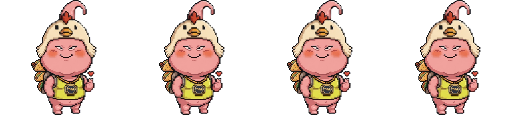
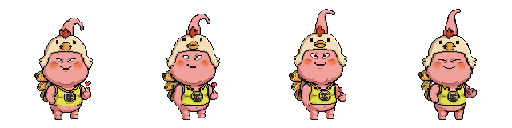
Pet World: refine hero idles and critter facing

diff --git a/client/src/components/petWorld/PetWorldCanvas.jsx b/client/src/components/petWorld/PetWorldCanvas.jsx
@@ -627,6 +627,22 @@ function smoothStep(value) {
   return value * value * (3 - 2 * value);
 }
 
+function resolveFacingFromDelta(dx, dy, fallback = 1, options = {}) {
+  const validFallback = [-2, -1, 1, 2].includes(fallback) ? fallback : 1;
+  if (options.sideOnly) {
+    if (Math.abs(dx) > 0.02) return dx >= 0 ? 1 : -1;
+    if (validFallback === -1 || validFallback === 1) return validFallback;
+    return options.defaultSideFacing || 1;
+  }
+  if (Math.abs(dx) >= Math.abs(dy) && Math.abs(dx) > 0.02) {
+    return dx >= 0 ? 1 : -1;
+  }
+  if (Math.abs(dy) > 0.02) {
+    return dy >= 0 ? 2 : -2;
+  }
+  return validFallback;
+}
+
 function getRouteMotion(entity, time) {
   const route = entity.route;
   if (!route?.length) {
@@ -642,7 +658,7 @@ function getRouteMotion(entity, time) {
 
   const cycleMs = route.reduce((total, node) => total + node.pauseMs + node.moveMs, 0) || 1;
   let cursor = (time + entity.seed * 173) % cycleMs;
-  let lastFacing = route.find((node) => node.facing)?.facing || 1;
+  let lastFacing = route.find((node) => node.facing)?.facing || entity.idleFacing || 1;
   // Very slow idle frame cycle — almost static to prevent any visible jitter
   const idleFrameRate = entity.idleFrameRate ?? 0.00008;
   const idleFrame = idleFrameRate > 0 ? (time * idleFrameRate + entity.seed * 0.1) % 1 : 0;
@@ -683,14 +699,10 @@ function getRouteMotion(entity, time) {
       const dx = next.x - node.x;
       const dy = next.y - node.y;
       // 4-direction facing: derive from actual movement vector
-      let facing;
-      if (Math.abs(dx) >= Math.abs(dy) && Math.abs(dx) > 0.02) {
-        facing = dx >= 0 ? 1 : -1;
-      } else if (Math.abs(dy) > 0.02) {
-        facing = dy >= 0 ? 2 : -2;  // 2 = down, -2 = up
-      } else {
-        facing = node.facing || lastFacing || 1;
-      }
+      const facing = resolveFacingFromDelta(dx, dy, node.facing || lastFacing || 1, {
+        sideOnly: entity.sideOnlyFacing,
+        defaultSideFacing: entity.defaultSideFacing || 1,
+      });
       return {
         x: node.x + dx * eased,
         y: node.y + dy * eased,
@@ -763,11 +775,10 @@ function getTileRouteMotion(entity, time) {
       const progress = node.moveMs > 0 ? cursor / node.moveMs : 1;
       const dx = next.x - node.x;
       const dy = next.y - node.y;
-      const facing = Math.abs(dx) >= Math.abs(dy) && Math.abs(dx) > 0.02
-        ? (dx >= 0 ? 1 : -1)
-        : Math.abs(dy) > 0.02
-          ? (dy >= 0 ? 2 : -2)
-          : entity.idleFacing || node.facing || lastFacing || 2;
+      const facing = resolveFacingFromDelta(dx, dy, entity.idleFacing || node.facing || lastFacing || 2, {
+        sideOnly: entity.sideOnlyFacing,
+        defaultSideFacing: entity.defaultSideFacing || 1,
+      });
       return {
         x: node.x + dx * progress,
         y: node.y + dy * progress,
@@ -1090,9 +1101,10 @@ function getAnimalWanderPos(entity, time, grid) {
 
   // Stable facing based on current drift direction
   const facing = moving
-    ? (Math.abs(dx) >= Math.abs(dy)
-    ? (dx >= 0 ? 1 : -1)
-    : (dy >= 0 ? 2 : -2))
+    ? resolveFacingFromDelta(dx, dy, entity.idleFacing || 2, {
+      sideOnly: entity.sideOnlyFacing,
+      defaultSideFacing: entity.defaultSideFacing || 1,
+    })
     : (entity.idleFacing || 2);
 
   // Very slow idle frame — almost static
@@ -1152,7 +1164,7 @@ function buildPetPlacements(world, terrainRegions, buildings = []) {
     heroScale: 1.0,
     idleFacing: 2,
     walkCyclesPerTile: 2.8,
-    idleFrameRate: 0.00006,
+    idleFrameRate: 0.00026,
     route: buildRoamingTileRoute(heroAnchor, roamTiles, grid, terrainRegions, seed, {
       stopCount: 4,
       minDist: 2,
@@ -1313,16 +1325,19 @@ function buildAmbientFauna(world, terrainRegions, buildings = []) {
   const fishCount = Math.min(7, Math.max(2, Math.floor(waterTiles.length / 18)));
   for (let i = 0; i < fishCount && waterTiles.length; i += 1) {
     const tile = waterTiles[(i * 7 + 3) % waterTiles.length];
+    const waterSpecies = i % 4 === 0 ? 'goose' : (i % 3 === 0 ? 'duck' : (i % 2 === 0 ? 'fish_koi' : 'fish_perch'));
     placements.push({
       ...tile,
-      species: i % 3 === 0 ? 'duck' : (i % 2 === 0 ? 'fish_koi' : 'fish_perch'),
+      species: waterSpecies,
       seed: 101 + i * 19,
-      rangeX: i % 3 === 0 ? 0.2 : 0.35,
-      rangeY: i % 3 === 0 ? 0.12 : 0.2,
+      rangeX: waterSpecies === 'goose' ? 0.18 : (waterSpecies === 'duck' ? 0.2 : 0.35),
+      rangeY: waterSpecies === 'goose' ? 0.1 : (waterSpecies === 'duck' ? 0.12 : 0.2),
       period: 2800 + i * 210,
       layer: 'water',
-      yBias: i % 3 === 0 ? 0.58 : 0.62,
-      scale: i % 3 === 0 ? 0.72 : 0.62,
+      yBias: waterSpecies === 'goose' ? 0.62 : (waterSpecies === 'duck' ? 0.58 : 0.62),
+      scale: waterSpecies === 'goose' ? 0.78 : (waterSpecies === 'duck' ? 0.72 : 0.62),
+      idleFacing: waterSpecies === 'goose' ? -1 : 1,
+      idleFrameRate: waterSpecies === 'goose' ? 0.00022 : (waterSpecies === 'duck' ? 0.00026 : 0.00008),
     });
   }
 
@@ -1339,7 +1354,9 @@ function buildAmbientFauna(world, terrainRegions, buildings = []) {
         layer: 'ground',
         yBias: 0.82,
         scale: ['rabbit', 'fox'].includes(['rabbit', 'deer', 'boar', 'fox'][i % 4]) ? 0.56 : 0.68,
-        idleFacing: 2,
+        idleFacing: ['rabbit', 'fox'].includes(['rabbit', 'deer', 'boar', 'fox'][i % 4]) ? -1 : 2,
+        sideOnlyFacing: ['rabbit', 'fox'].includes(['rabbit', 'deer', 'boar', 'fox'][i % 4]),
+        defaultSideFacing: -1,
         walkCyclesPerTile: 2.3,
         idleFrameRate: 0,
         route: buildRoamingTileRoute(tile, mammalPool, grid, terrainRegions, 203 + i * 23, {
@@ -1353,13 +1370,13 @@ function buildAmbientFauna(world, terrainRegions, buildings = []) {
       });
   }
 
-  const birdPool = shoreTiles.length ? shoreTiles : (woodedTiles.length ? woodedTiles : roamingTiles);
+  const birdPool = woodedTiles.length ? woodedTiles : roamingTiles;
   const birdCount = Math.min(5, Math.max(2, Math.ceil(((world.population || 0) + 2) / 4)));
   for (let i = 0; i < birdCount && birdPool.length; i += 1) {
     const tile = birdPool[(i * 9 + 1) % birdPool.length];
     placements.push({
       ...tile,
-      species: i % 4 === 0 ? 'rare_bird' : 'songbird',
+      species: 'songbird',
       seed: 307 + i * 31,
       rangeX: 0.28,
       rangeY: 0.22,
@@ -1379,6 +1396,7 @@ function buildEncounterSightings(world, terrainRegions, encounters = [], buildin
   const landGraph = buildLandComponents(grid, terrainRegions, ENCOUNTER_WALK_OPTIONS, buildings);
   const roamingTiles = landGraph.primary?.length ? landGraph.primary : landGraph.tiles;
   if (!roamingTiles.length) return [];
+  const waterTiles = findTilesByType(grid, 'water');
   const meadowTiles = roamingTiles.filter(({ x, y }) => (terrainRegions?.[y]?.[x]?.meadowStrength || 0) > 0.28);
   const woodedTiles = roamingTiles.filter(({ x, y }) => (terrainRegions?.[y]?.[x]?.foliageShadow || 0) > 0.2);
   const shoreTiles = roamingTiles.filter(({ x, y }) => (terrainRegions?.[y]?.[x]?.shoreStrength || 0) > 0.12);
@@ -1386,7 +1404,7 @@ function buildEncounterSightings(world, terrainRegions, encounters = [], buildin
   return encounters.map((encounter, index) => {
     const type = encounter.encounter_type;
     const pool =
-      type === 'rare_bird' ? (shoreTiles.length ? shoreTiles : meadowTiles) :
+      type === 'rare_bird' ? (waterTiles.length ? waterTiles : (shoreTiles.length ? shoreTiles : meadowTiles)) :
       type === 'bear_sighting' ? (woodedTiles.length ? woodedTiles : roamingTiles) :
       type === 'wolf_pack' ? (woodedTiles.length ? woodedTiles : meadowTiles) :
       (meadowTiles.length ? meadowTiles : roamingTiles);
@@ -1398,11 +1416,12 @@ function buildEncounterSightings(world, terrainRegions, encounters = [], buildin
       seed: 409 + index * 37,
       range: type === 'bear_sighting' ? 0.28 : 0.4,
       period: 3000 + index * 180,
-      layer: type === 'rare_bird' ? 'air' : 'ground',
-      yBias: type === 'rare_bird' ? 0.46 : 0.8,
-      scale: type === 'bear_sighting' ? 0.86 : type === 'wolf_pack' ? 0.76 : 0.72,
+      layer: type === 'rare_bird' ? 'water' : 'ground',
+      yBias: type === 'rare_bird' ? 0.62 : 0.8,
+      scale: type === 'rare_bird' ? 0.8 : type === 'bear_sighting' ? 0.86 : type === 'wolf_pack' ? 0.76 : 0.72,
       tileKey: `${tile.x}:${tile.y}`,
-      idleFacing: 2,
+      idleFacing: type === 'rare_bird' ? -1 : 2,
+      idleFrameRate: type === 'rare_bird' ? 0.00022 : undefined,
       walkCyclesPerTile: 2.2,
       route: type === 'rare_bird' ? null : buildRoamingTileRoute(tile, pool, grid, terrainRegions, 409 + index * 37, {
         stopCount: 3,
@@ -1777,10 +1796,12 @@ export default function PetWorldCanvas({
         const screenX = wander.x * tileSize - camX + tileSize / 2;
         const screenY = wander.y * tileSize - camY + tileSize * creature.yBias;
         if (screenX < -tileSize || screenY < -tileSize || screenX > size.width + tileSize || screenY > size.height + tileSize) return;
+        const floatingBird = creature.species === 'duck' || creature.species === 'goose';
         drawAmbientCritter(ctx, screenX, screenY, tileSize, creature.species, wander.frameOffset, {
           scale: creature.scale,
           facing: wander.facing,
-          moving: wander.moving,
+          moving: floatingBird ? false : wander.moving,
+          waterborne: true,
         });
       });
 
@@ -1888,10 +1909,12 @@ export default function PetWorldCanvas({
       const screenX = wander.x * tileSize - camX + tileSize / 2;
       const screenY = wander.y * tileSize - camY + tileSize * sighting.yBias;
       if (screenX < -tileSize || screenY < -tileSize || screenX > size.width + tileSize || screenY > size.height + tileSize) return;
+      const floatingBird = sighting.layer === 'water' && (sighting.species === 'duck' || sighting.species === 'goose' || sighting.species === 'rare_bird');
       drawAmbientCritter(ctx, screenX, screenY, tileSize, sighting.species, wander.frameOffset, {
         scale: sighting.scale,
         facing: wander.facing,
-        moving: wander.moving,
+        moving: floatingBird ? false : wander.moving,
+        waterborne: sighting.layer === 'water',
         highlight: true,
       });
     });

diff --git a/client/src/components/petWorld/petWorldCuteFantasySprites.js b/client/src/components/petWorld/petWorldCuteFantasySprites.js
@@ -397,26 +397,41 @@ const ANIMALS = {
   pig:     {
     p: 'Animals/Pig/Pig_01.png',
     idle: { side: { row: 0, n: 1 }, south: { row: 1, n: 1 }, north: { row: 2, n: 1 } },
-    walk: { side: { row: 3, n: 8 }, south: { row: 4, n: 8 }, north: { row: 4, n: 8 } },
+    walk: { side: { row: 3, n: 8 }, south: { row: 4, n: 8 }, north: { row: 5, n: 8 } },
   },
   sheep:   {
     p: 'Animals/Sheep/Sheep_01.png',
     idle: { side: { row: 0, n: 1 }, south: { row: 1, n: 1 }, north: { row: 2, n: 1 } },
-    walk: { side: { row: 3, n: 8 }, south: { row: 4, n: 8 }, north: { row: 4, n: 8 } },
+    walk: { side: { row: 3, n: 8 }, south: { row: 4, n: 8 }, north: { row: 5, n: 8 } },
   },
-  duck:    { p: 'Animals/Duck/Duck_01.png',        idle: { row: 0, n: 2 }, walk: { row: 1, n: 5 } },
+  duck:    {
+    p: 'Animals/Duck/Duck_01.png',
+    idle: { row: 0, n: 2 },
+    walk: { row: 1, n: 5 },
+    waterIdle: { row: 6, n: 2 },
+  },
   cow:     {
     p: 'Animals/Cow/Cow_01.png',
     idle: { side: { row: 0, n: 1 }, south: { row: 1, n: 1 }, north: { row: 2, n: 1 } },
-    walk: { side: { row: 3, n: 8 }, south: { row: 4, n: 8 }, north: { row: 4, n: 8 } },
+    walk: { side: { row: 3, n: 8 }, south: { row: 4, n: 8 }, north: { row: 5, n: 8 } },
   },
   frog:    { p: 'Animals/Frog/Frog_01.png',        idle: { row: 0, n: 2 }, walk: { row: 1, n: 8 } },
-  mouse:   { p: 'Animals/Mouse/Mouse_01.png',      idle: { row: 0, n: 2 }, walk: { row: 1, n: 6 } },
-  goose:   { p: 'Animals/Goose/Goose_01.png',      idle: { row: 0, n: 2 }, walk: { row: 2, n: 6 } },
+  mouse:   {
+    p: 'Animals/Mouse/Mouse_01.png',
+    idle: { row: 0, n: 2 },
+    walk: { row: 1, n: 6 },
+    preferSideFacing: true,
+  },
+  goose:   {
+    p: 'Animals/Goose/Goose_01.png',
+    idle: { row: 0, n: 2 },
+    walk: { row: 1, n: 6 },
+    waterIdle: { row: 0, n: 2 },
+  },
   horse:   {
     p: 'Animals/Horse/Horse_01.png',
     idle: { side: { row: 0, n: 1 }, south: { row: 1, n: 1 }, north: { row: 2, n: 1 } },
-    walk: { side: { row: 3, n: 6 }, south: { row: 4, n: 6 }, north: { row: 4, n: 6 } },
+    walk: { side: { row: 3, n: 6 }, south: { row: 4, n: 6 }, north: { row: 5, n: 6 } },
   },
 };
 
@@ -1025,6 +1040,7 @@ export function drawCuteFantasyCritter(ctx, x, y, tileSize, species, frameOffset
   const fac = options?.facing || 1;
   const scale = options?.scale || 0.6;
   const moving = options?.moving || false;
+  const waterborne = !!options?.waterborne;
   const dir = fac === -1 || fac === 1 ? 'side' : (fac === -2 ? 'north' : 'south');
 
   // Small creatures (butterfly, bee) — special layouts
@@ -1055,19 +1071,24 @@ export function drawCuteFantasyCritter(ctx, x, y, tileSize, species, frameOffset
   if (!entry?.loaded) return true; // suppress fallback
 
   // Pick the correct animation row and frame count
-  const animSet = moving ? an.walk : an.idle;
-  const anim = animSet?.[dir] || animSet?.side || animSet;
+  const waterAnim = an.waterIdle || an.idle;
+  const animSet = waterborne ? waterAnim : (moving ? an.walk : an.idle);
+  const resolvedDir = an.preferSideFacing ? 'side' : dir;
+  const anim = animSet?.[resolvedDir] || animSet?.side || animSet;
   const fi = Math.floor(frameOffset * anim.n) % anim.n;
   const sx = fi * 32;
   const sy = anim.row * 32;
 
   const d = tileSize * scale;
-  dropShadow(ctx, x, y + d * 0.06, d * 0.22, d * 0.07, 0.18);
+  const verticalFloat = waterborne ? Math.sin(frameOffset * Math.PI * 2) * tileSize * 0.012 : 0;
+  if (!waterborne) {
+    dropShadow(ctx, x, y + d * 0.06, d * 0.22, d * 0.07, 0.18);
+  }
   return drawFrame(
     ctx, src,
     sx, sy, 32, 32,
-    x - d / 2, y - d * 0.6, d, d,
-    dir === 'side' ? fac : undefined,
+    x - d / 2, y - d * 0.6 + verticalFloat, d, d,
+    resolvedDir === 'side' ? (fac === -1 ? -1 : 1) : undefined,
   );
 }
 
@@ -1083,8 +1104,19 @@ export function drawCuteFantasyPet(ctx, x, y, tileSize, character, frameOffset, 
   if (heroPet) {
     const dir = petDirFromFacing(facing);
     const d = tileSize * heroPet.baseScale * scaleMultiplier;
-    const bob = moving ? Math.sin(frameOffset * Math.PI * 2) * d * 0.025 : 0;
-    dropShadow(ctx, x, y + d * 0.16, d * 0.22, d * 0.07, 0.18);
+    const idlePhase = frameOffset * Math.PI * 2;
+    const bob = moving
+      ? Math.sin(idlePhase) * d * 0.025
+      : Math.sin(idlePhase) * d * 0.018;
+    const swayX = !moving && dir === 'south'
+      ? Math.sin(idlePhase * 0.5) * d * 0.012
+      : 0;
+    const breath = !moving
+      ? Math.sin(idlePhase) * 0.018
+      : 0;
+    const drawW = d * (1 - breath * 0.35);
+    const drawH = d * (1 + breath * 0.55);
+    dropShadow(ctx, x, y + d * 0.16, drawW * 0.22, drawW * 0.07, 0.18);
 
     const animSrc = moving ? heroPet.walk[dir] : heroPet.idle[dir];
     const animEntry = getImage(animSrc);
@@ -1094,14 +1126,14 @@ export function drawCuteFantasyPet(ctx, x, y, tileSize, character, frameOffset, 
       return drawFrame(
         ctx, animSrc,
         fi * heroPet.fw, 0, heroPet.fw, heroPet.fh,
-        x - d / 2, y - d * 0.76 + bob, d, d,
+        x - drawW / 2 + swayX, y - drawH * 0.76 + bob, drawW, drawH,
       );
     }
 
     const baseEntry = getImage(heroPet.base);
     if (!baseEntry?.loaded) return true;
     const drawFacing = dir === 'west' ? -1 : 1;
-    return drawImg(ctx, heroPet.base, x - d / 2, y - d * 0.76 + bob, d, d, drawFacing);
+    return drawImg(ctx, heroPet.base, x - drawW / 2 + swayX, y - drawH * 0.76 + bob, drawW, drawH, drawFacing);
   }
 
   // ── Custom pet sprites (directional 48×48) ──
